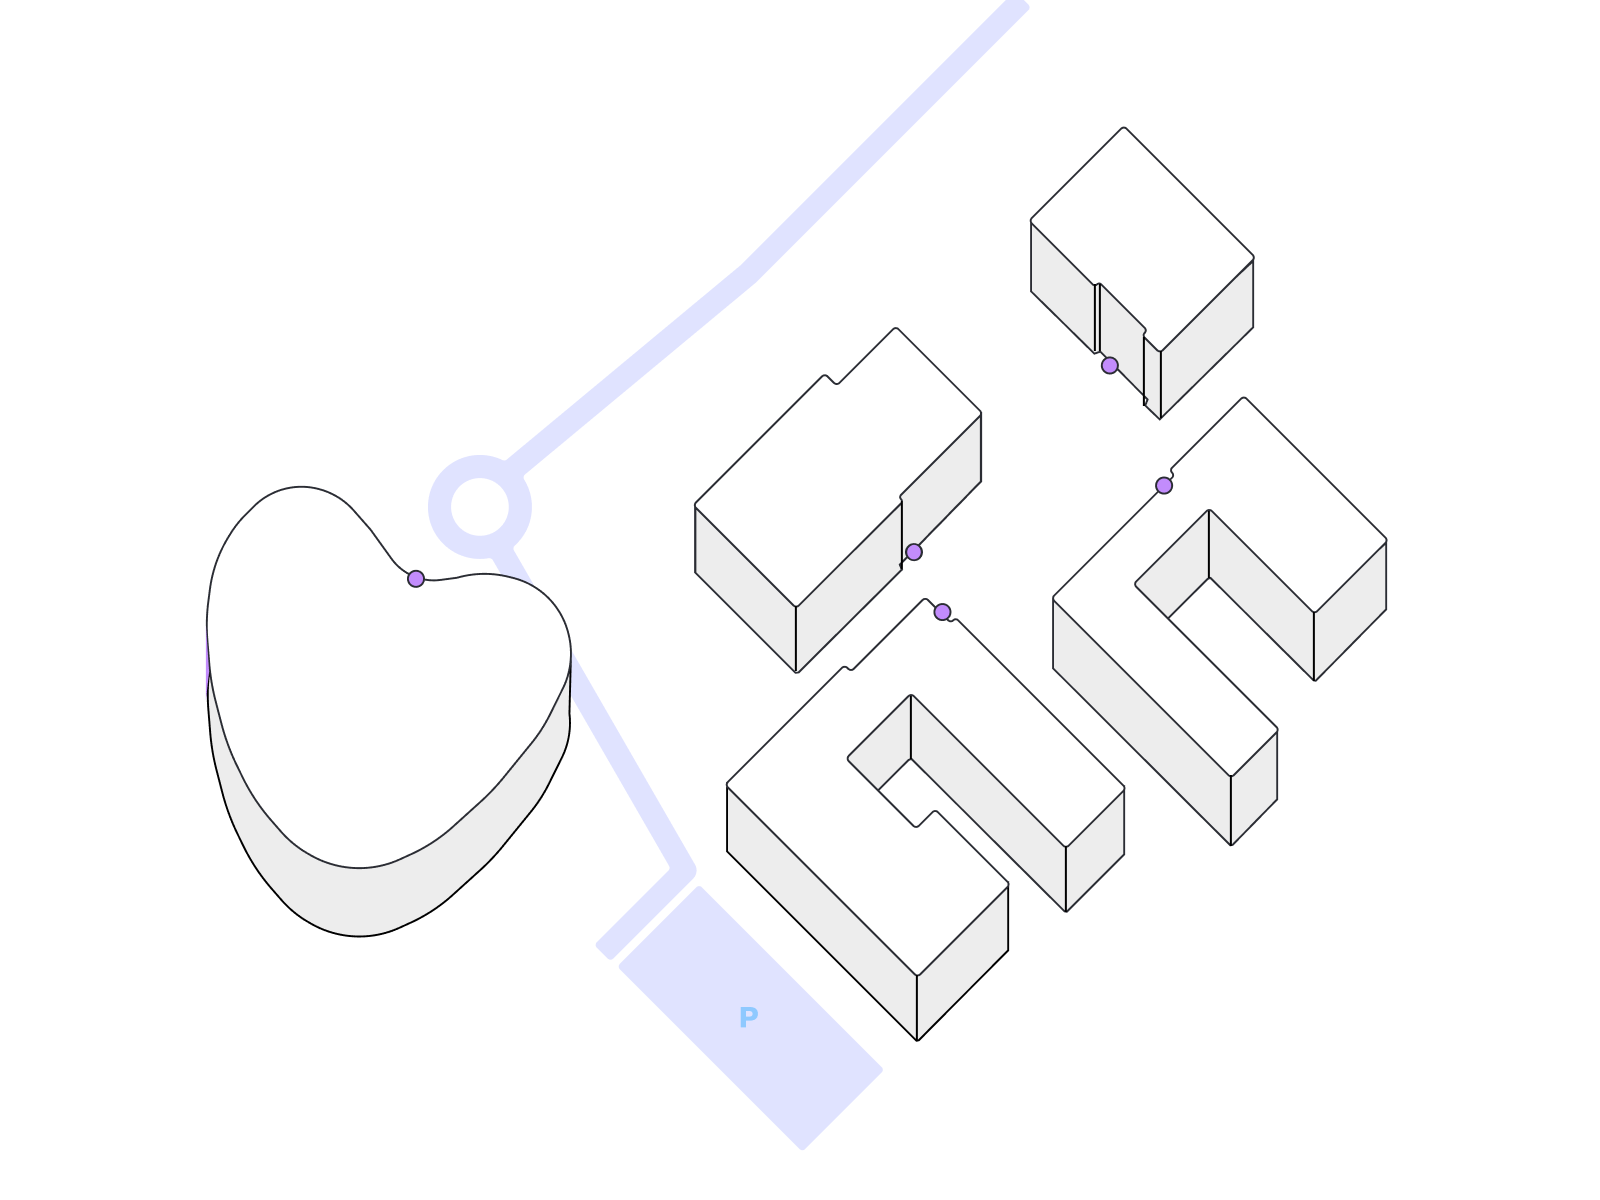
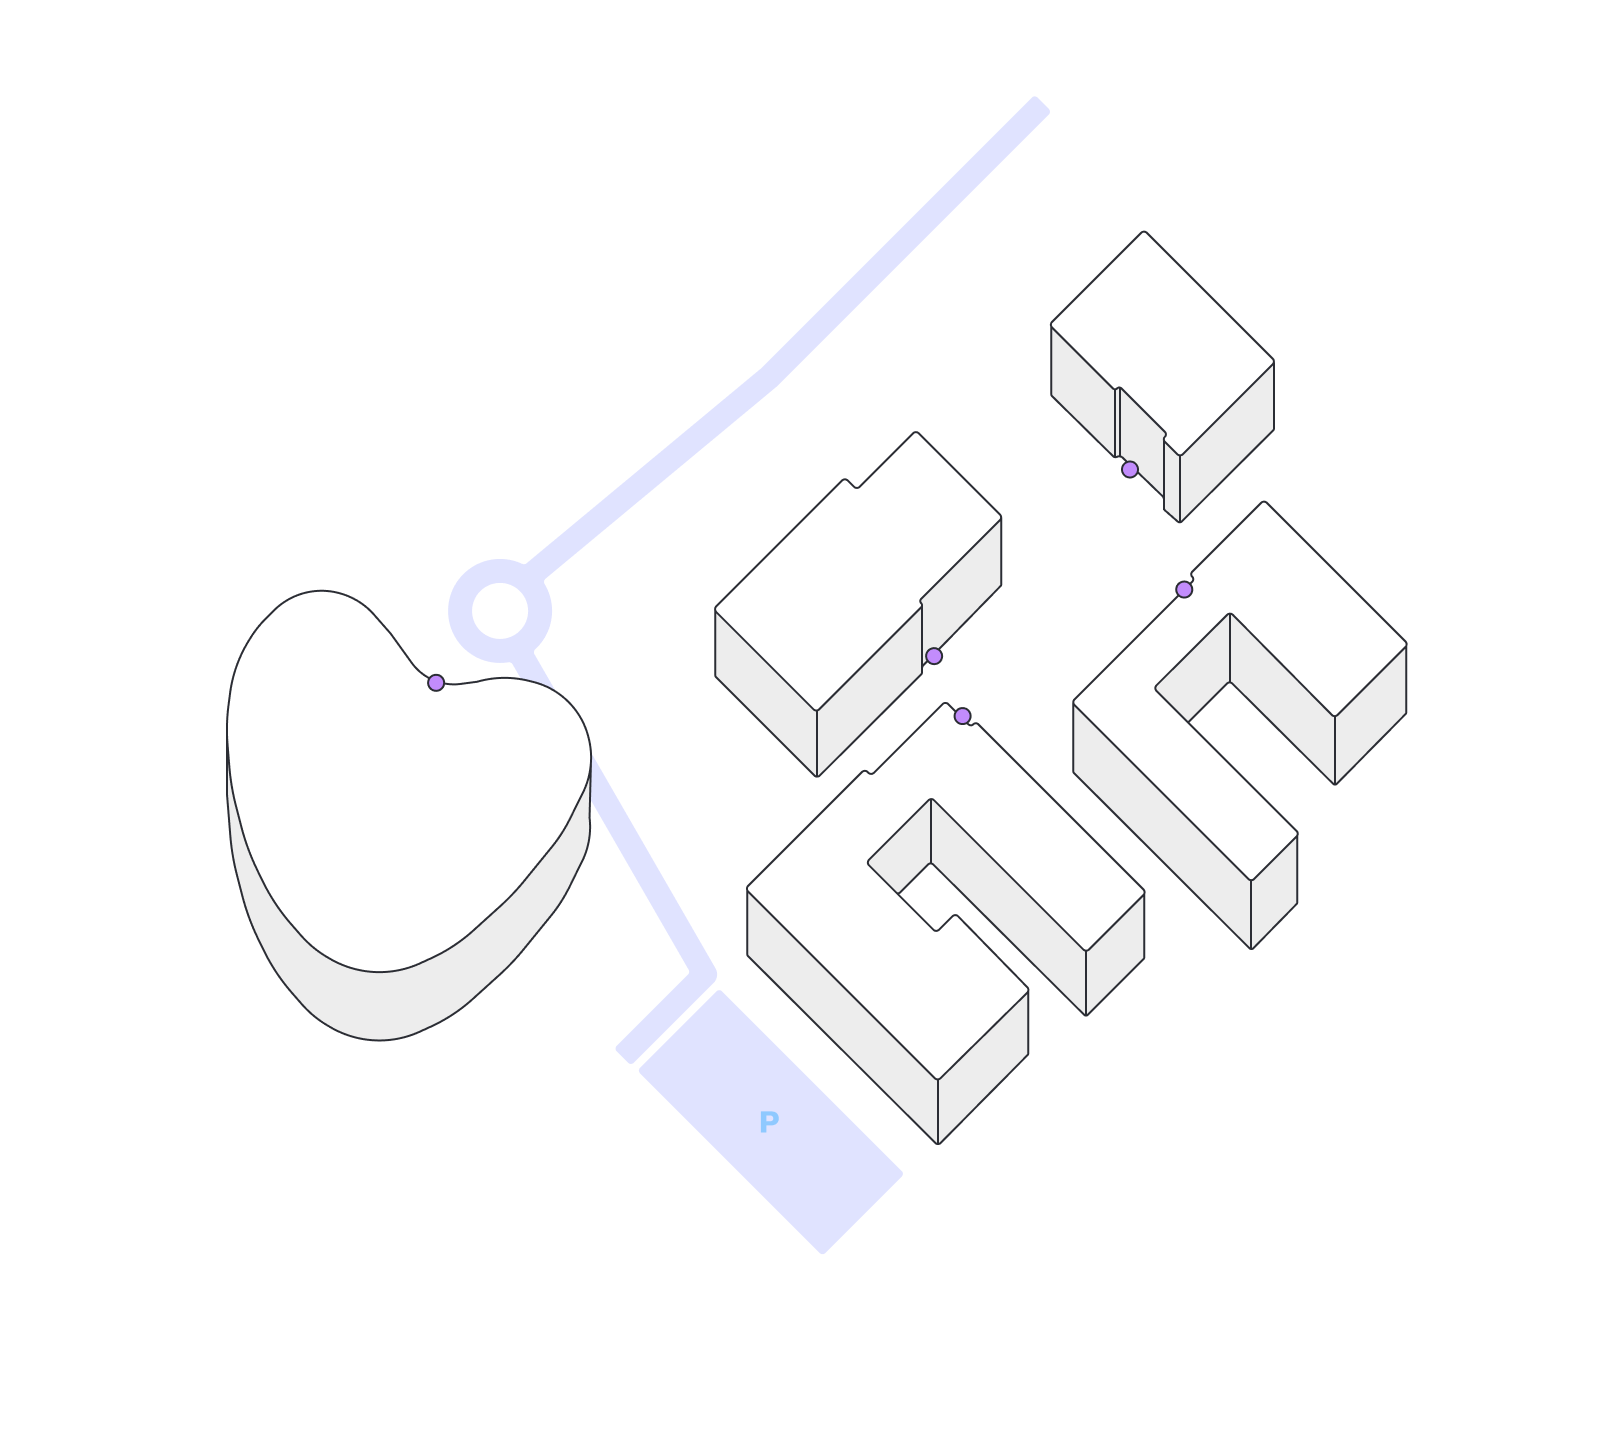
implemented dijkstra functionality

diff --git a/Pages/Home.tsx b/Pages/Home.tsx
@@ -11,9 +11,12 @@ import { Button, IconButton } from 'react-native-paper';
 import {Image, View} from "react-native";
 import { ButtonText } from "../components/ButtonText";
 import {RoomSelection} from "../components/RoomSelection";
+import {getPathstoRooms, Roomfinder} from "../Roomfinding/Roomfinder";
+import data from "../Roomfinding/data.json";
 
 
 export const Home = ({ navigation }) => {
+  const [category, setCategory] = useState(0);
   const [categorySelected, setCategorySelected] = useState(false);
   const [categoryItems, setCategoryItems] = useState([""]);
   const [sheetStatus, setSheetStatus] = useState(-1);
@@ -38,31 +41,10 @@ export const Home = ({ navigation }) => {
     setSheetStatus(index);
   }, []);
 
-// Example usage:
-  const dijkstra = new Dijkstra();
-
-  dijkstra.addEdge(0, 1, 4);
-  dijkstra.addEdge(0, 7, 8);
-  dijkstra.addEdge(1, 2, 8);
-  dijkstra.addEdge(1, 7, 11);
-  dijkstra.addEdge(2, 3, 7);
-  dijkstra.addEdge(2, 8, 2);
-  dijkstra.addEdge(2, 5, 4);
-  dijkstra.addEdge(3, 4, 9);
-  dijkstra.addEdge(3, 5, 14);
-  dijkstra.addEdge(4, 5, 10);
-  dijkstra.addEdge(5, 6, 2);
-  dijkstra.addEdge(6, 7, 1);
-  dijkstra.addEdge(6, 8, 6);
-  dijkstra.addEdge(7, 8, 7);
-
-  const startNode = 0;
-  const shortestDistances = dijkstra.dijkstra(startNode);
-
   const handleBuilding = (id) => {
     handleSnapPress(1);
     setCategorySelected(true);
-    setCategoryItems(["Raum" + id, "Raum" + id, "Raum" + id, "Raum" + id, "Raum" + id] )
+    setCategoryItems(data.buildings[id].rooms)
   }
 
 
@@ -108,7 +90,8 @@ export const Home = ({ navigation }) => {
                       <Button
                           onPress={() => {
                             setCategorySelected(true);
-                            setCategoryItems(["Raum1", "Raum2", "Raum3", "Raum4", "Raum5", "Raum6"])
+                            setCategory(0)
+                            setCategoryItems(["L1 1", "L1 2", "L1 3", "L1 4", "L1 5", "L1 6"])
                           }
                           }
                       >Seminarräume</Button>
@@ -124,7 +107,7 @@ export const Home = ({ navigation }) => {
                       <ButtonText color={customColors.orange} action={() => handleClosePress(-1)}>Back</ButtonText>
                       <IconButton size={50} icon="close" onPress={() => handleClosePress(-1)} style={[styles.buttonUwU, styles.buttonIcon]} />
                       <Button style={styles.buttonPrimary} textColor={customColors.dark} onPress={() => setCategorySelected(false)}>Oh shit go bacc</Button>
-                      <RoomSelection items={categoryItems}></RoomSelection>
+                      <RoomSelection category={category} items={categoryItems}></RoomSelection>
                     </>
                 }
               </BottomSheetScrollView>

diff --git a/components/Campus.tsx b/components/Campus.tsx
@@ -12,11 +12,11 @@ export default function Campus({onBuilding} : Props) {
         <View style={{position: "relative",
             padding: 50}}>
             <View style={{flex: 1, zIndex:4}}>
-                <ButtonBuilding id={1} onBuilding={(id) => onBuilding(id)} color={customColors.green} coords={[540, 85]}>L1</ButtonBuilding>
-                <ButtonBuilding id={2} onBuilding={(id) => onBuilding(id)} color={customColors.yellow} coords={[400, 200]}>L2</ButtonBuilding>
-                <ButtonBuilding id={3} onBuilding={(id) => onBuilding(id)} color={customColors.uwu} coords={[435, 420]}>L3</ButtonBuilding>
-                <ButtonBuilding id={4} onBuilding={(id) => onBuilding(id)} color={customColors.purple} coords={[630, 243]}>L4</ButtonBuilding>
-                <ButtonBuilding id={5} onBuilding={(id) => onBuilding(id)} color={customColors.softPurple} coords={[140, 300]}>IQL</ButtonBuilding>
+                <ButtonBuilding id={0} onBuilding={(id) => onBuilding(id)} color={customColors.green} coords={[560, 85]}>L1</ButtonBuilding>
+                <ButtonBuilding id={1} onBuilding={(id) => onBuilding(id)} color={customColors.yellow} coords={[400, 200]}>L2</ButtonBuilding>
+                <ButtonBuilding id={2} onBuilding={(id) => onBuilding(id)} color={customColors.uwu} coords={[445, 410]}>L3</ButtonBuilding>
+                <ButtonBuilding id={3} onBuilding={(id) => onBuilding(id)} color={customColors.purple} coords={[640, 233]}>L4</ButtonBuilding>
+                <ButtonBuilding id={4} onBuilding={(id) => onBuilding(id)} color={customColors.softPurple} coords={[140, 300]}>IQL</ButtonBuilding>
             </View>
             <Image source={require('../assets/Map.png')}
                    style={{width: 800, height: 600}}/>

diff --git a/components/RoomSelection.tsx b/components/RoomSelection.tsx
@@ -1,17 +1,22 @@
-import {styles} from "../styles/styles";
+import {customColors, styles} from "../styles/styles";
 import {View} from "react-native";
 import {Text} from "react-native-paper";
+import {ButtonText} from "./ButtonText";
+import {getPathstoRooms} from "../Roomfinding/Roomfinder";
 
 interface Props {
-    items: string[]
+    items: string[],
+    category: number
 }
-export const RoomSelection = ({items} : Props) => {
+export const RoomSelection = ({items, category} : Props) => {
     return (
         <View style={styles.roomGrid}>
             {items.map((item: any, index: number) => (
-                <View key={index} style={styles.room}>
-                    <Text>{item}</Text>
-                </View>
+                <ButtonText key={index} color={customColors.orange} action={
+                    () => console.log(getPathstoRooms(index, category))
+                }>
+                    {item}
+                </ButtonText>
             ))}
         </View>
     );

diff --git a/Roomfinding/Dijkstra.ts b/Roomfinding/Dijkstra.ts
@@ -29,7 +29,7 @@ export class Dijkstra {
         this.graph.get(source)?.set(destination, weight);
     }
 
-    dijkstra(startNode: number): Map<number, { distance: number; visitedNodes: number[] }> {
+    dijkstra(startNode: number, endNote: number): number[] {
         const distances = new Map<number, { distance: number; visitedNodes: number[] }>();
         const priorityQueue = new PriorityQueue<number>();
 
@@ -57,6 +57,7 @@ export class Dijkstra {
             }
         }
 
-        return distances;
+
+        return distances.get(endNote).visitedNodes;
     }
 }

diff --git a/Roomfinding/Roomfinder.ts b/Roomfinding/Roomfinder.ts
@@ -1,0 +1,13 @@
+import data from "./data.json"
+import {Dijkstra} from "./Dijkstra";
+
+export const getPathstoRooms = (room: number, id: number) => {
+    const dijkstra = new Dijkstra();
+    const paths = data.buildings[id].paths;
+    for(let i = 0; i < paths.length; i++) {
+        dijkstra.addEdge(paths[i][0], paths[i][1], paths[i][2])
+    }
+    const startNode = 0;
+    return dijkstra.dijkstra(startNode, room);
+
+}
